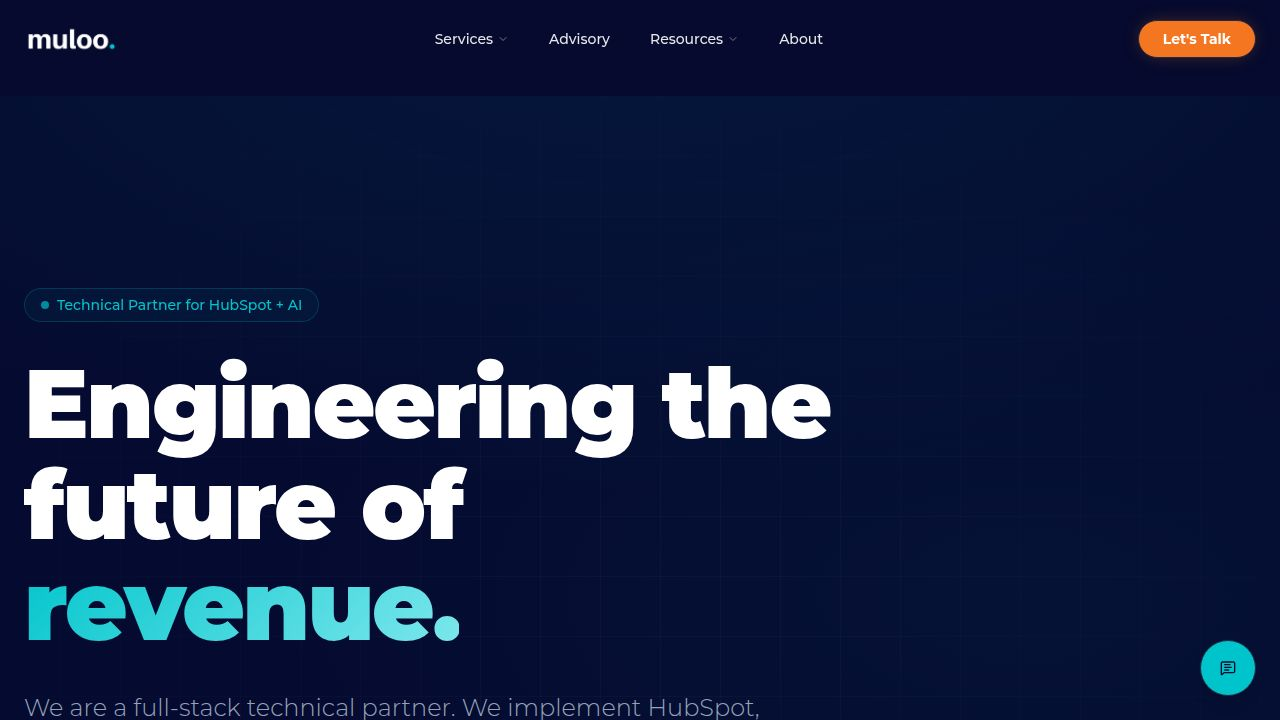
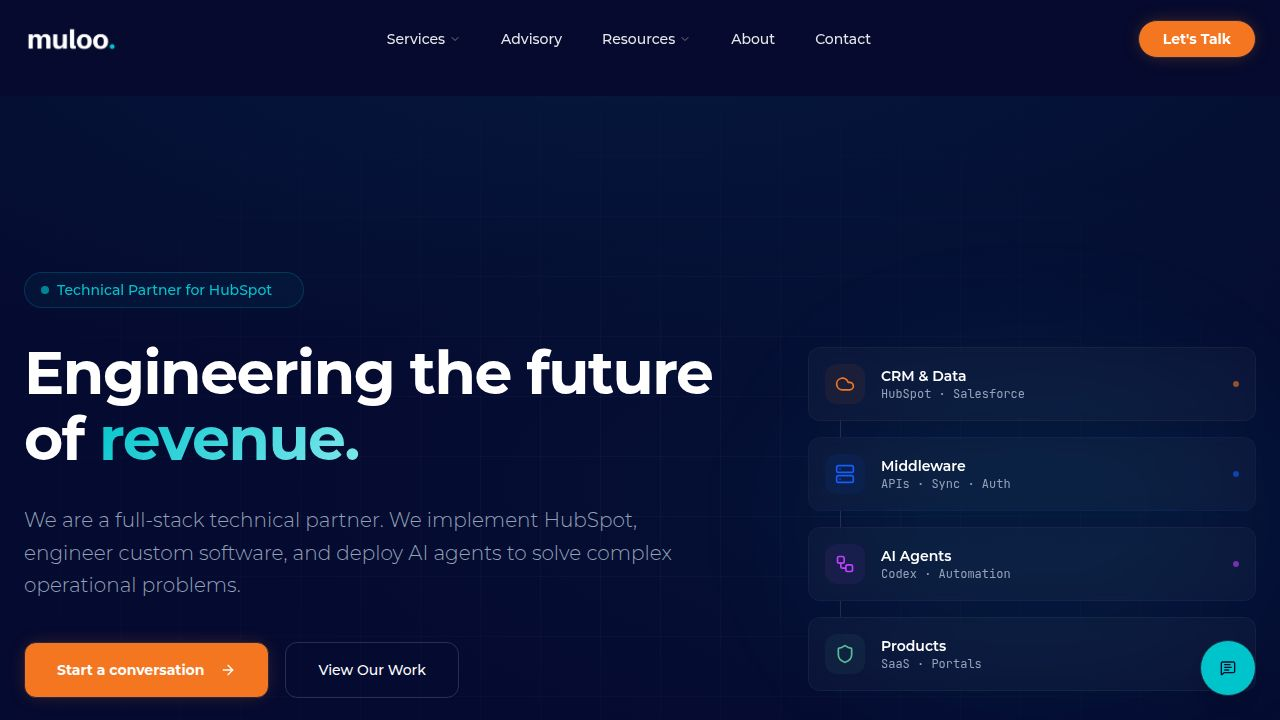
Improve hero section with animated text and updated call to action
Update the home page hero section by introducing rotating badge text, adjusting H1 font size and weight, replacing the primary CTA text from "Talk Engineering" to "Start a conversation", and adding a system diagram illustration to the right side of the content.

Replit-Commit-Author: Agent
Replit-Commit-Session-Id: 48c779ea-a9d9-4860-8ead-1b1bf76c8928
Replit-Commit-Checkpoint-Type: full_checkpoint
Replit-Commit-Event-Id: abe593cc-31e4-4334-8e31-deb5df95c68a
Replit-Commit-Screenshot-Url: https://storage.googleapis.com/screenshot-production-us-central1/16b46b86-c891-4273-b756-b6b85d5cef0c/48c779ea-a9d9-4860-8ead-1b1bf76c8928/J870xhU
Replit-Helium-Checkpoint-Created: true

diff --git a/client/src/pages/home.tsx b/client/src/pages/home.tsx
@@ -1,10 +1,18 @@
 import { Section } from "@/components/ui/section";
 import { homeContent } from "@/lib/content";
 import { Button } from "@/components/ui/button";
-import { ArrowRight, Database, Cpu, Bot, Layout, ChevronRight } from "lucide-react";
+import { ArrowRight, Database, Cpu, Bot, Layout, ChevronRight, Cloud, Server, Workflow, Shield } from "lucide-react";
 import { Link } from "wouter";
+import { useState, useEffect } from "react";
 import hubspotBadge from "@assets/gold-badge-color_1771487221441.png";
 import googleBadge from "@assets/google-partner-logo_1771487221441.png";
+
+const rotatingPhrases = [
+  "Technical Partner for HubSpot",
+  "Systems & Integration Specialists",
+  "AI Workflow & Agent Builders",
+  "Embedded CTO & Sales Engineering",
+];
 
 const streamColors: Record<string, { accent: string; border: string; bg: string; text: string; glow: string }> = {
   hub: { accent: "bg-stream-hub", border: "border-stream-hub/30", bg: "bg-stream-hub/10", text: "text-stream-hub", glow: "group-hover:shadow-[0_0_30px_-10px_rgba(244,118,33,0.3)]" },
@@ -33,45 +41,118 @@ const processSteps = [
   { step: "04", title: "Support", desc: "We maintain, monitor, and evolve your systems over time." },
 ];
 
+function RotatingBadge() {
+  const [index, setIndex] = useState(0);
+  const [isVisible, setIsVisible] = useState(true);
+
+  useEffect(() => {
+    const interval = setInterval(() => {
+      setIsVisible(false);
+      setTimeout(() => {
+        setIndex((prev) => (prev + 1) % rotatingPhrases.length);
+        setIsVisible(true);
+      }, 400);
+    }, 3500);
+    return () => clearInterval(interval);
+  }, []);
+
+  return (
+    <div className="inline-flex items-center rounded-full border border-brand-teal/20 bg-brand-teal/5 px-4 py-1.5 text-sm font-medium text-brand-teal mb-8 backdrop-blur-sm h-9 min-w-[280px]" data-testid="badge-hero">
+      <span className="flex h-2 w-2 rounded-full bg-brand-teal mr-2 animate-pulse shrink-0" />
+      <span
+        className="transition-all duration-400"
+        style={{
+          opacity: isVisible ? 1 : 0,
+          transform: isVisible ? "translateY(0)" : "translateY(-6px)",
+        }}
+      >
+        {rotatingPhrases[index]}
+      </span>
+    </div>
+  );
+}
+
+function SystemDiagram() {
+  return (
+    <div className="relative w-full max-w-md mx-auto hidden lg:block" data-testid="hero-system-diagram">
+      <div className="absolute inset-0 bg-brand-teal/5 blur-3xl rounded-full" />
+      <div className="relative space-y-4">
+        {[
+          { icon: <Cloud className="h-5 w-5" />, label: "CRM & Data", sub: "HubSpot · Salesforce", color: "#F47621" },
+          { icon: <Server className="h-5 w-5" />, label: "Middleware", sub: "APIs · Sync · Auth", color: "#155DFC" },
+          { icon: <Workflow className="h-5 w-5" />, label: "AI Agents", sub: "Codex · Automation", color: "#C140FF" },
+          { icon: <Shield className="h-5 w-5" />, label: "Products", sub: "SaaS · Portals", color: "#59BF96" },
+        ].map((node, i) => (
+          <div key={i} className="relative">
+            {i > 0 && (
+              <div className="absolute -top-4 left-8 w-px h-4 bg-white/10" />
+            )}
+            <div
+              className="glass-card rounded-xl p-4 flex items-center gap-4 hover:-translate-x-1 transition-transform duration-300"
+              style={{ borderColor: `${node.color}15` }}
+            >
+              <div
+                className="p-2.5 rounded-lg shrink-0"
+                style={{ backgroundColor: `${node.color}12`, color: node.color }}
+              >
+                {node.icon}
+              </div>
+              <div>
+                <div className="text-sm font-semibold text-white">{node.label}</div>
+                <div className="text-xs text-muted-foreground font-mono">{node.sub}</div>
+              </div>
+              <div
+                className="ml-auto h-1.5 w-1.5 rounded-full opacity-60"
+                style={{ backgroundColor: node.color }}
+              />
+            </div>
+          </div>
+        ))}
+      </div>
+    </div>
+  );
+}
+
 export function Home() {
   return (
     <div className="flex flex-col">
       {/* ── HERO ── */}
-      <div className="relative pt-32 pb-24 md:pt-48 md:pb-32 overflow-hidden bg-hero-gradient">
+      <div className="relative pt-32 pb-24 md:pt-44 md:pb-28 overflow-hidden bg-hero-gradient">
         <div className="absolute inset-0 bg-grid-pattern-fade pointer-events-none" />
         
         <div className="container mx-auto px-6 relative z-10">
-          <div className="max-w-4xl">
-            <div className="inline-flex items-center rounded-full border border-brand-teal/20 bg-brand-teal/5 px-4 py-1.5 text-sm font-medium text-brand-teal mb-8 backdrop-blur-sm" data-testid="badge-hero">
-              <span className="flex h-2 w-2 rounded-full bg-brand-teal mr-2 animate-pulse" />
-              {homeContent.hero.badge}
-            </div>
-            
-            <h1 className="text-5xl md:text-7xl lg:text-8xl font-black tracking-tight mb-8 leading-[1.05] text-white">
-              {homeContent.hero.headline.split("revenue.")[0]}
-              <span className="text-gradient-teal">revenue.</span>
-            </h1>
-            
-            <p className="text-xl md:text-2xl text-muted-foreground mb-10 leading-relaxed max-w-3xl font-light">
-              {homeContent.hero.subhead}
-            </p>
-            
-            <div className="flex flex-col sm:flex-row gap-4 mb-12">
-              <Link href="/contact">
-                <Button size="lg" className="bg-brand-orange text-white hover:bg-brand-orange/90 font-bold px-8 h-14 rounded-lg glow-orange-sm hover:-translate-y-0.5 transition-all" data-testid="button-hero-cta">
-                  {homeContent.hero.primaryCta} <ArrowRight className="ml-2 h-5 w-5" />
-                </Button>
-              </Link>
-              <Link href="/case-studies">
-                <Button size="lg" variant="outline" className="border-white/15 text-white hover:bg-white/5 px-8 h-14 rounded-lg" data-testid="button-hero-secondary">
-                  {homeContent.hero.secondaryCta}
-                </Button>
-              </Link>
+          <div className="flex items-center gap-16">
+            <div className="max-w-3xl flex-1">
+              <RotatingBadge />
+              
+              <h1 className="text-4xl md:text-[3.5rem] lg:text-6xl font-bold tracking-tight mb-8 leading-[1.1] text-white">
+                {homeContent.hero.headline.split("revenue.")[0]}
+                <span className="text-gradient-teal">revenue.</span>
+              </h1>
+              
+              <p className="text-lg md:text-xl text-muted-foreground mb-10 leading-relaxed max-w-2xl font-light">
+                {homeContent.hero.subhead}
+              </p>
+              
+              <div className="flex flex-col sm:flex-row gap-4 mb-12">
+                <Link href="/contact">
+                  <Button size="lg" className="bg-brand-orange text-white hover:bg-brand-orange/90 font-bold px-8 h-14 rounded-lg glow-orange-sm hover:-translate-y-0.5 transition-all" data-testid="button-hero-cta">
+                    {homeContent.hero.primaryCta} <ArrowRight className="ml-2 h-5 w-5" />
+                  </Button>
+                </Link>
+                <Link href="/case-studies">
+                  <Button size="lg" variant="outline" className="border-white/15 text-white hover:bg-white/5 px-8 h-14 rounded-lg" data-testid="button-hero-secondary">
+                    {homeContent.hero.secondaryCta}
+                  </Button>
+                </Link>
+              </div>
+
+              <p className="text-sm font-mono text-muted-foreground/50 tracking-wider">
+                Cape Town based. Globally delivered.
+              </p>
             </div>
 
-            <p className="text-sm font-mono text-muted-foreground/50 tracking-wider">
-              Cape Town based. Globally delivered.
-            </p>
+            <SystemDiagram />
           </div>
         </div>
       </div>

diff --git a/client/src/lib/content.ts b/client/src/lib/content.ts
@@ -25,7 +25,7 @@ export const homeContent = {
     badge: "Technical Partner for HubSpot + AI",
     headline: "Engineering the future of revenue.",
     subhead: "We are a full-stack technical partner. We implement HubSpot, engineer custom software, and deploy AI agents to solve complex operational problems.",
-    primaryCta: "Talk Engineering",
+    primaryCta: "Start a conversation",
     secondaryCta: "View Our Work",
     techStack: ["HubSpot", "React", "Node.js", "Python", "OpenAI", "Anthropic", "AWS", "Vercel"]
   },
